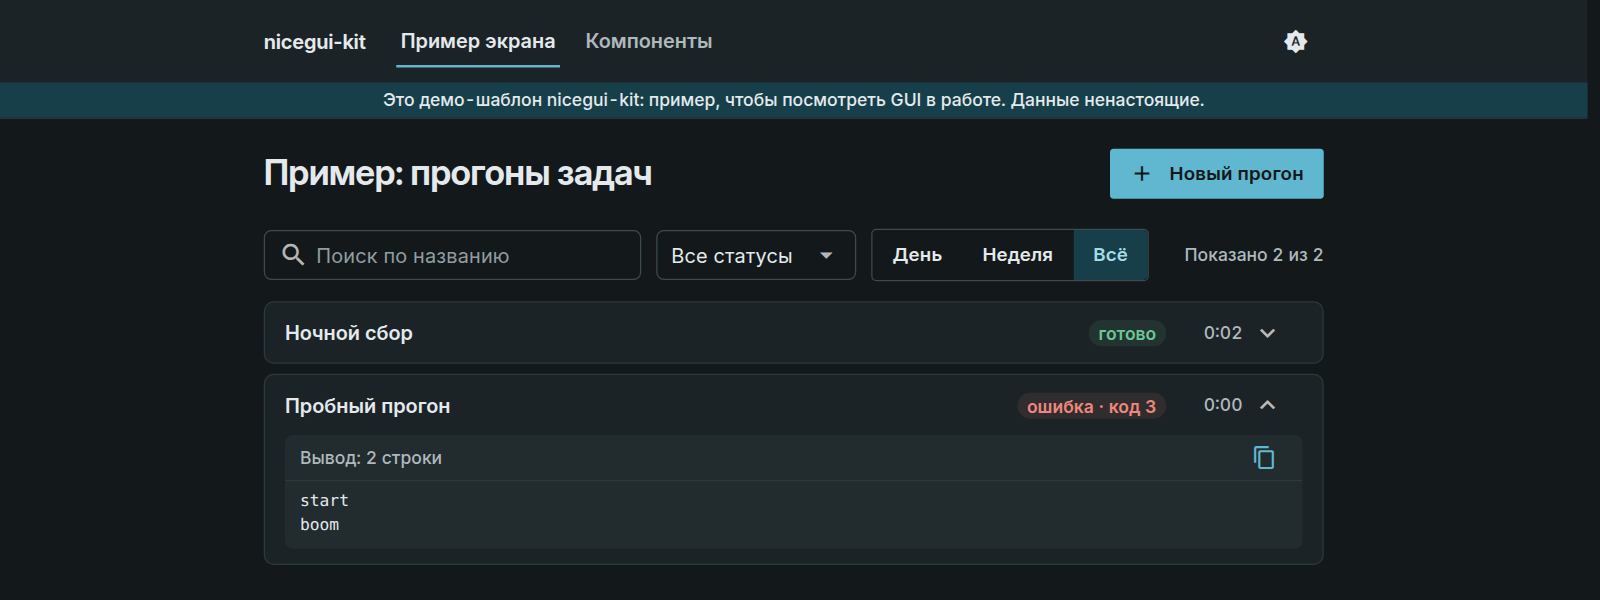
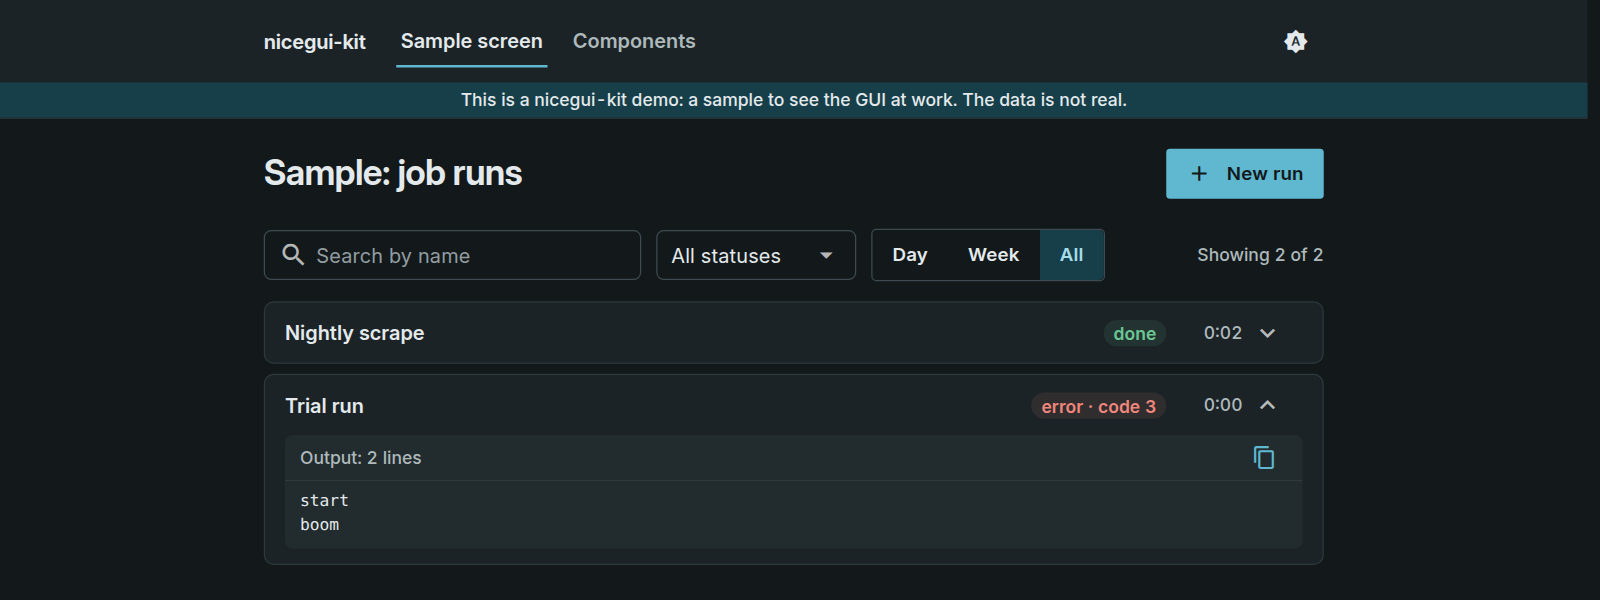
docs: showcase in English, screenshots retaken

diff --git a/examples/showcase.py b/examples/showcase.py
@@ -10,14 +10,15 @@ from datetime import datetime, timedelta
 
 from nicegui import ui
 
-from nicegui_kit import layout, run_monitor, run_pool, table, theme
+from nicegui_kit import layout, run_monitor, run_pool, table, texts, theme
 
-PERIODS = {"День": timedelta(days=1), "Неделя": timedelta(days=7), "Всё": None}
-STATUSES = {"Все статусы": None, "Идёт": run_pool.PENDING_STATUSES, "Готово": {run_pool.DONE},
-            "Ошибка": {run_pool.FAILED}}
-DEMO_RUNS = (("Ночной сбор", "echo collecting; sleep 2; echo done"),
-             ("Пробный прогон", "echo start; echo boom >&2; exit 3"))
+PERIODS = {"Day": timedelta(days=1), "Week": timedelta(days=7), "All": None}
+STATUSES = {"All statuses": None, "Running": run_pool.PENDING_STATUSES, "Done": {run_pool.DONE},
+            "Error": {run_pool.FAILED}}
+DEMO_RUNS = (("Nightly scrape", "echo collecting; sleep 2; echo done"),
+             ("Trial run", "echo start; echo boom >&2; exit 3"))
 
+texts.TEXTS.update(texts.EN)  # kit strings are Russian by default
 theme.apply_theme()
 
 
@@ -29,30 +30,30 @@ def _run_dialog() -> ui.dialog:
     """Starting a run is a one-off act; the list is where the work is. So the form
     lives in a dialog behind the page's primary button, not in a column of its own."""
     with ui.dialog() as dialog, layout.section_card():
-        layout.heading("Новый прогон", level=2)
-        name = layout.field("Название", required=True, enter="next").props("clearable")
+        layout.heading("New run", level=2)
+        name = layout.field("Name", required=True, enter="next").props("clearable")
         # a filled address IS the request for a report: no separate checkbox
-        mail = layout.field("Почта для отчёта (необязательно)", kind="email", enter="done",
-                            hint="Пришлём отчёт, когда прогон закончится").props("clearable")
+        mail = layout.field("Email for the report (optional)", kind="email", enter="done",
+                            hint="We'll send a report when the run finishes").props("clearable")
 
         def start() -> None:
             if not name.validate():
                 return
             _submit(name.value, "echo working; sleep 3; echo ok")
-            ui.notify(f"Прогон «{name.value}» запущен"
-                      + (f", отчёт придёт на {mail.value}" if mail.value else ""), type="positive")
+            ui.notify(f"Run \"{name.value}\" started"
+                      + (f", the report will go to {mail.value}" if mail.value else ""), type="positive")
             name.value = ""
             dialog.close()
 
         mail.on("keydown.enter", start)
         with layout.actions_row():
-            layout.button("Отмена", kind="quiet", on_click=dialog.close)
-            layout.button("Запустить", kind="primary", on_click=start)
+            layout.button("Cancel", kind="quiet", on_click=dialog.close)
+            layout.button("Start", kind="primary", on_click=start)
     return dialog
 
 
 def _runs_section() -> None:
-    flt = {"text": "", "status": "Все статусы", "period": "Всё"}
+    flt = {"text": "", "status": "All statuses", "period": "All"}
 
     def visible(state: run_pool.RunState) -> bool:
         statuses, age = STATUSES[flt["status"]], PERIODS[flt["period"]]
@@ -62,86 +63,86 @@ def _runs_section() -> None:
 
     # the page h1 already names the list; the count depends on the filters, so it sits with them
     with layout.filter_bar():
-        layout.search_field("Поиск по названию", on_change=lambda e: flt.update(text=e.value or ""))
-        ui.select(list(STATUSES), value="Все статусы",
+        layout.search_field("Search by name", on_change=lambda e: flt.update(text=e.value or ""))
+        ui.select(list(STATUSES), value="All statuses",
                   on_change=lambda e: flt.update(status=e.value)) \
-            .props('outlined dense aria-label="Статус"')
-        ui.toggle(list(PERIODS), value="Всё", on_change=lambda e: flt.update(period=e.value))
+            .props('outlined dense aria-label="Status"')
+        ui.toggle(list(PERIODS), value="All", on_change=lambda e: flt.update(period=e.value))
         ui.space()
         count = ui.label().classes("t-meta")
-    run_monitor.attach_run_monitor(run_filter=visible, idle_text="Под эти фильтры прогонов нет.")
+    run_monitor.attach_run_monitor(run_filter=visible, idle_text="No runs match these filters.")
     ui.timer(1, lambda: count.set_text(
-        f"Показано {sum(map(visible, run_pool.RUNS.values()))} из {len(run_pool.RUNS)}"))
+        f"Showing {sum(map(visible, run_pool.RUNS.values()))} of {len(run_pool.RUNS)}"))
 
 
 def _states_gallery() -> None:
     with layout.section_card():
-        layout.heading("Состояния данных", level=2)
-        ui.label("Одно место — одно состояние; переключите, чтобы сравнить.").classes("t-meta")
+        layout.heading("Data states", level=2)
+        ui.label("One place, one state at a time; switch to compare.").classes("t-meta")
         area = ui.column().classes("w-full")
 
         def show(kind: str) -> None:
             area.clear()
             with area:
-                if kind == "Пусто":
-                    layout.empty("Прогонов ещё не было — запустите первый.",
-                                 ("Запустить", lambda: ui.notify("Демо")))
-                elif kind == "Загрузка":
-                    layout.waiting("Загружаем журнал")
-                elif kind == "Ошибка":
-                    layout.failed("Не удалось прочитать журнал. Проверьте путь в настройках.",
-                                  retry=lambda: ui.notify("Повтор"))
+                if kind == "Empty":
+                    layout.empty("No runs yet. Start the first one.",
+                                 ("Start", lambda: ui.notify("Demo")))
+                elif kind == "Loading":
+                    layout.waiting("Loading the journal")
+                elif kind == "Error":
+                    layout.failed("Couldn't read the journal. Check the path in settings.",
+                                  retry=lambda: ui.notify("Retry"))
                 else:
                     with ui.row().classes("ic-state"):
                         ui.icon("check_circle").classes("ic-status--ok")
-                        ui.label("Журнал прочитан: 1 204 записи.").classes("ic-status--ok")
+                        ui.label("Journal read: 1,204 entries.").classes("ic-status--ok")
 
-        ui.toggle(["Пусто", "Загрузка", "Ошибка", "Готово"], value="Пусто",
+        ui.toggle(["Empty", "Loading", "Error", "Done"], value="Empty",
                   on_change=lambda e: show(e.value))
-        show("Пусто")
+        show("Empty")
 
 
 def _fields_gallery() -> None:
     with layout.section_card():
-        layout.heading("Поля ввода", level=2)
-        ui.label("Тип поля задаёт клавиатуру на телефоне и автозаполнение браузера.").classes("t-meta")
+        layout.heading("Input fields", level=2)
+        ui.label("The field kind sets the phone keyboard and browser autofill.").classes("t-meta")
         with layout.grid():
-            layout.field("Город", suggestions=["Москва", "Минск", "Мурманск"],
-                         hint="Подсказки при вводе").classes("ic-span-6")
-            layout.field("Телефон", kind="tel", hint="Цифровая клавиатура").classes("ic-span-6")
-            layout.field("Пароль", kind="password", required=True).classes("ic-span-6")
-            layout.field("Код из СМС", kind="code", enter="done", hint="6 цифр") \
+            layout.field("City", suggestions=["Berlin", "Boston", "Bristol"],
+                         hint="Suggestions while typing").classes("ic-span-6")
+            layout.field("Phone", kind="tel", hint="Numeric keypad").classes("ic-span-6")
+            layout.field("Password", kind="password", required=True).classes("ic-span-6")
+            layout.field("SMS code", kind="code", enter="done", hint="6 digits") \
                 .props('mask="### ###" unmasked-value input-class="t-mono"').classes("ic-span-4")
 
 
 def _marks_gallery() -> None:
     with layout.section_card():
-        layout.heading("Статусы и метки", level=2)
+        layout.heading("Statuses and marks", level=2)
         with ui.row().classes("items-center flex-wrap").style("gap: var(--ic-s2) var(--ic-s3)"):
-            for text, cls in (("готово", "ok"), ("идёт", "running"), ("ошибка", "error"),
-                              ("остановлено", "cancel")):
+            for text, cls in (("done", "ok"), ("running", "running"), ("error", "error"),
+                              ("cancelled", "cancel")):
                 ui.label(text).classes(f"ic-badge ic-status--{cls}")
             ui.label("12").classes("ic-count")
             ui.label("prod").classes("ic-chip ic-chip--neutral")
-        ui.label("Токен истекает через 2 дня — обновите его в настройках.").classes("ic-banner p-3")
+        ui.label("The token expires in 2 days. Renew it in settings.").classes("ic-banner p-3")
 
 
 def _data_gallery() -> None:
     with layout.section_card():
-        layout.heading("Таблица и текст", level=2)
+        layout.heading("Table and text", level=2)
         t = table.empty_aware_table(
-            [{"name": "n", "label": "Автор", "field": "n", "align": "left"},
-             {"name": "c", "label": "Видео", "field": "c", "align": "right"}],
+            [{"name": "n", "label": "Author", "field": "n", "align": "left"},
+             {"name": "c", "label": "Videos", "field": "c", "align": "right"}],
             row_key="n", pagination={"rowsPerPage": 0},
         )
         t.table.props("hide-bottom")
-        t.set_rows([{"n": "alice", "c": 1204}, {"n": "борис", "c": 37}])
-        layout.markdown_reader("## Сводка\n\nТекст с `кодом` и [ссылкой](#).\n\n> цитата")
+        t.set_rows([{"n": "alice", "c": 1204}, {"n": "bob", "c": 37}])
+        layout.markdown_reader("## Summary\n\nText with `code` and a [link](#).\n\n> a quote")
 
 
-PAGES = {"/": "Пример экрана", "/kit": "Компоненты"}
+PAGES = {"/": "Sample screen", "/kit": "Components"}
 # every page says it is a sample: nobody should mistake it for a working tool
-DEMO_NOTE = "Это демо-шаблон nicegui-kit: пример, чтобы посмотреть GUI в работе. Данные ненастоящие."
+DEMO_NOTE = "This is a nicegui-kit demo: a sample to see the GUI at work. The data is not real."
 
 
 def _shell(here: str, dark: int, max_width: str) -> None:
@@ -176,8 +177,8 @@ def index(dark: int = 0) -> None:
     dialog = _run_dialog()
     with layout.page_container():
         with ui.row().classes("ic-split w-full items-center justify-between"):
-            layout.heading("Пример: прогоны задач", level=1)
-            layout.button("Новый прогон", kind="primary", icon="add", on_click=dialog.open)
+            layout.heading("Sample: job runs", level=1)
+            layout.button("New run", kind="primary", icon="add", on_click=dialog.open)
         with ui.column().classes("w-full").style("gap: var(--ic-s4)"):
             _runs_section()
 
@@ -186,8 +187,8 @@ def index(dark: int = 0) -> None:
 def kit(dark: int = 0) -> None:
     _shell("/kit", dark, layout.PAGE_MAX_WIDTH_WIDE)
     with layout.page_container(max_width=layout.PAGE_MAX_WIDTH_WIDE):
-        layout.heading("Компоненты kit", level=1)
-        ui.label("Витрина для разработчика: каждый блок — один компонент во всех его состояниях.") \
+        layout.heading("Kit components", level=1)
+        ui.label("A gallery for developers: each card is one component in all its states.") \
             .classes("t-meta")
         with layout.grid():
             # pairs of similar height; a card fills its grid row, so no ragged holes
@@ -196,5 +197,5 @@ def kit(dark: int = 0) -> None:
                     part()
 
 
-ui.run(host="127.0.0.1", port=8787, show=False, reload=False, language="ru",
-       title="nicegui-kit · демо-шаблон")
+ui.run(host="127.0.0.1", port=8787, show=False, reload=False, language="en-US",
+       title="nicegui-kit · demo")

diff --git a/tests/test_showcase.py b/tests/test_showcase.py
@@ -7,8 +7,17 @@ import pytest
 from nicegui import ui
 from nicegui.testing import User
 
-DEMO_NOTE = "Это демо-шаблон nicegui-kit"
+from nicegui_kit import texts
+
+DEMO_NOTE = "This is a nicegui-kit demo"
 MAIN = str(Path(__file__).parents[1] / "examples" / "showcase.py")
+
+
+@pytest.fixture(autouse=True)
+def _restore_russian():
+    """The showcase switches the process-global kit strings to English."""
+    yield
+    texts.TEXTS.update(texts.RU)
 
 
 @pytest.mark.nicegui_main_file(MAIN)
@@ -16,19 +25,19 @@ async def test_runs_show_and_dialog_starts_a_run(user: User) -> None:
     await user.open("/")
     await asyncio.sleep(4)
     await user.should_see(DEMO_NOTE)
-    await user.should_see("Пробный прогон")
-    await user.should_see("ошибка · код 3")
-    user.find("Новый прогон").click()
+    await user.should_see("Trial run")
+    await user.should_see("error · code 3")
+    user.find("New run").click()
     name = next(i for i in user.current_layout.descendants()
-                if isinstance(i, ui.input) and i.props.get("label") == "Название")
-    name.value = "проверка"
-    user.find("Запустить").click()
-    await user.should_see("Прогон «проверка» запущен")
+                if isinstance(i, ui.input) and i.props.get("label") == "Name")
+    name.value = "check"
+    user.find("Start").click()
+    await user.should_see('Run "check" started')
 
 
 @pytest.mark.nicegui_main_file(MAIN)
 async def test_kit_page(user: User) -> None:
     await user.open("/kit")
     await user.should_see(DEMO_NOTE)
-    await user.should_see("Состояния данных")
-    await user.should_not_see("Новый прогон")
+    await user.should_see("Data states")
+    await user.should_not_see("New run")

diff --git a/README.ru.md b/README.ru.md
@@ -19,7 +19,7 @@
 </picture>
 
 Экран выше — это `examples/showcase.py`, около 200 строк поверх кита. Строки кита по умолчанию
-русские; `texts.TEXTS.update(texts.EN)` переключает их на английский.
+русские; showcase переключает их на английский через `texts.TEXTS.update(texts.EN)`.
 
 ## Что внутри
 

diff --git a/README.md b/README.md
@@ -18,7 +18,7 @@ with a live log monitor that survives page reloads and cancels cleanly.
 </picture>
 
 The screen above is `examples/showcase.py`, about 200 lines on top of the kit. Kit strings are Russian
-by default; `texts.TEXTS.update(texts.EN)` switches them to English.
+by default; the showcase switches them to English with `texts.TEXTS.update(texts.EN)`.
 
 ## What you get
 
